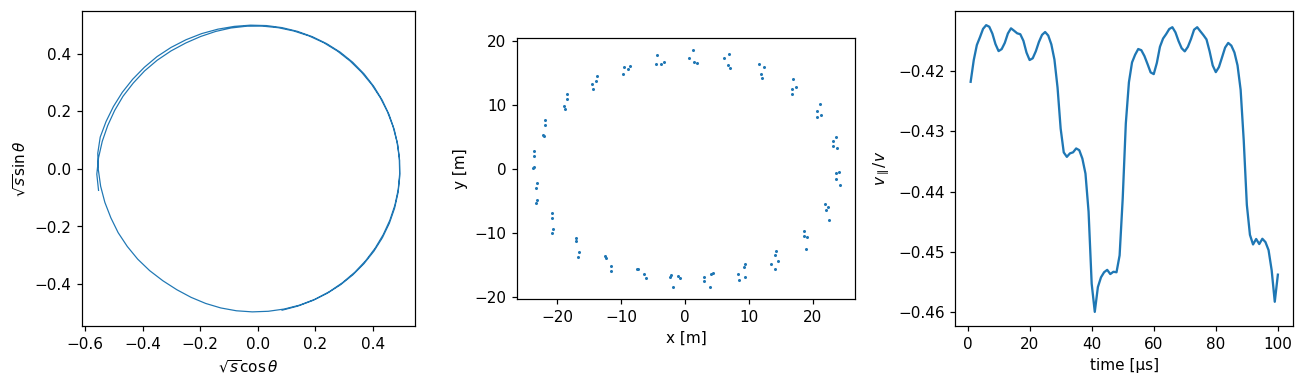
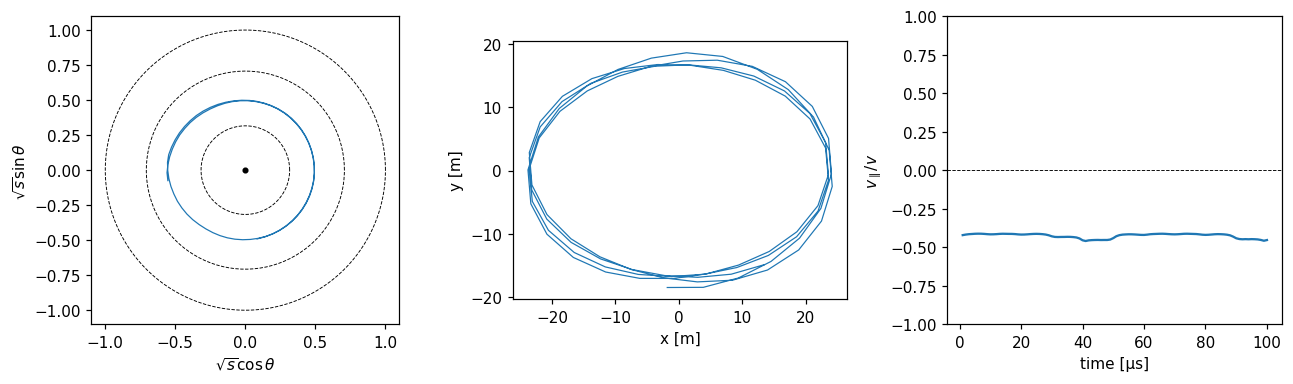
Trajectory tutorial: orbit plot with flux surfaces, joined points, v_par on [-1, 1]

diff --git a/docs/tutorials/loading-trajectories.md b/docs/tutorials/loading-trajectories.md
@@ -58,12 +58,17 @@ xyz = bb.to_xyz(rec, orbit["s"], orbit["theta"], orbit["zeta"])   # positions [m
 shown = orbit["t"] <= 100e-6                       # the first 100 us
 r, theta = np.sqrt(orbit["s"][shown]), orbit["theta"][shown]
 fig, axs = plt.subplots(1, 3, figsize=(12, 3.6))
+circle = np.linspace(0, 2 * np.pi, 200)
+for s_level in (0.1, 0.5, 1.0):                    # flux surfaces, for reference
+    axs[0].plot(np.sqrt(s_level) * np.cos(circle), np.sqrt(s_level) * np.sin(circle), "k--", lw=0.6)
+axs[0].plot(0, 0, "k.")                            # the magnetic axis, s = 0
 axs[0].plot(r * np.cos(theta), r * np.sin(theta), lw=0.8)
 axs[0].set(xlabel=r"$\sqrt{s}\cos\theta$", ylabel=r"$\sqrt{s}\sin\theta$", aspect="equal")
-axs[1].plot(xyz[shown, 0], xyz[shown, 1], ".", ms=2)
+axs[1].plot(xyz[shown, 0], xyz[shown, 1], lw=0.8)
 axs[1].set(xlabel="x [m]", ylabel="y [m]", aspect="equal")
 axs[2].plot(orbit["t"][shown] * 1e6, orbit["vpar"][shown] / bb.trajectory.V_ALPHA)
-axs[2].set(xlabel="time [µs]", ylabel=r"$v_\parallel / v$")
+axs[2].axhline(0, color="k", ls="--", lw=0.6)
+axs[2].set(xlabel="time [µs]", ylabel=r"$v_\parallel / v$", ylim=(-1, 1))
 fig.tight_layout()
 ```
 
